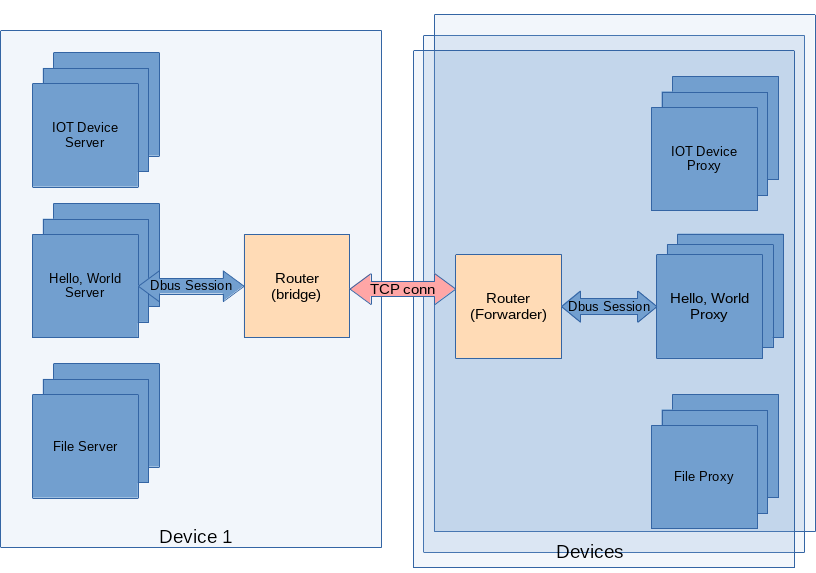
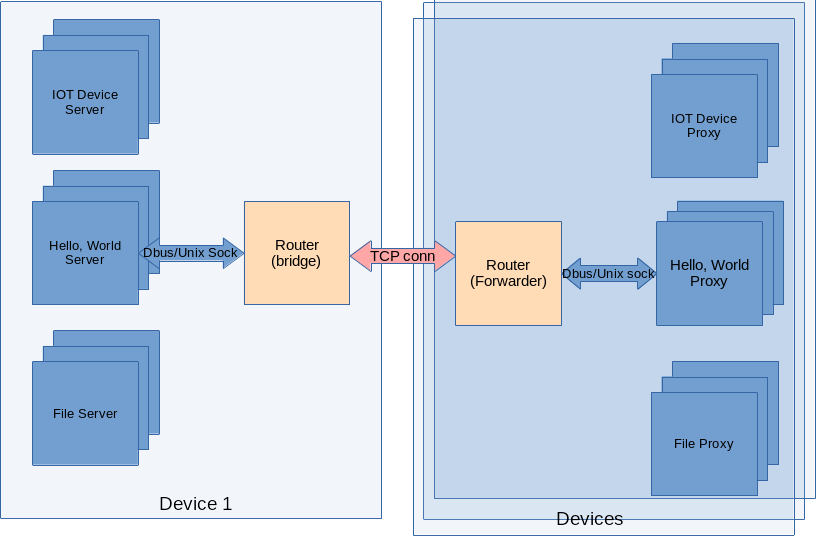
. Tut-Overview_cn-0.md, index_cn.md, docs/Makefile.am, pics/Makefile.am, pics/client-req-process.png, pics/server-req-process.png: added the 0th course of the rpc-frmwrk programming tutorial.

diff --git a/docs/Tut-Overview_cn-0.md b/docs/Tut-Overview_cn-0.md
@@ -1,0 +1,53 @@
+# C++开发教程
+## 第O节 rpc-frmwrk编程简介
+**本节要点**：   
+* rpc-frmwrk的架构和技术特点
+* rpc-frmwrk的请求处理流程
+* rpc-frmwrk的内存管理
+
+### rpc-frmwrk的架构和技术特点
+  * rpc-frmwrk是一个分布式的系统，微服务模式下的系统块图如下图:   
+     ![block-diagram](../pics/rpc-block-diagram.png)   
+  * rpc-frmwrk的各个模块是通过TCP连接，`Unix Socket`和DBus连接在一起，对于用户代码透明，可通过`rpcfg.py`或者配置文件进行设置。
+  * 客户端和服务器端程序，以及rpcrouter都是多线程的，完全并发的环境。几乎所有线程都处于各个运行对象共享的状态。
+  * ridl文件里，有个[service](../ridl/README_cn.md#语句)的概念。服务器是一个或者数个`service`实例的集合，同样客户端则是一个或者数个`service`实例集合。
+  * 服务器端的`service`继承自`CInterfaceServer`，客户端的`service`继承自`CInterfaceProxy`。
+  * `CInterfaceServer`或者`CInterfaceProxy`是一个异步I/O操作链条的起点和终点。而中间环节则是一组CTasklet和CPort堆栈组成，
+    而系统调用`read``write`或者`poll`处，则是这个I/O链条的转折点。由于操作系统的不同，这个系统调用会有所不同。
+  * 如果把从`CInterfaceServer`或者`CInterfaceProxy`开始的I/O链条视为一个I/O单元，那么`rpcrouter`就是管理I/O单元的特殊`service`。这样rpc-frmwrk的所有
+    工作几乎都可以通过嵌入或者堆砌这种`service`来构造。
+  * rpc-frwmrk请求的收发过程是完全异步的，通过Callback返回服务器响应或者错误码。而客户端的用户代码可以使用同步或者异步两种调用方式，收发请求和响应。
+    我们将在下面的课程中，看到这两种情况的应用。
+  
+### rpc-frmwrk的请求处理流程
+  * 下图是客户端RPC请求的异步处理流程。   
+     ![client process](../pics/client-req-process.png)   
+
+  * 下图是服务器端RPC请求的异步处理流程。   
+     ![server process](../pics/server-req-process.png)   
+
+### rpc-frmwrk的内存管理
+rpc-frmwrk定义的Class大部分基于共同的基类CObjBase，并具有唯一的32位`class id`。这使得这些类可以通过类工厂建立，并由引用技术控制对象的生命周期。
+一种常用的建立对象实例的方法是使用智能指针，如ObjPtr来建立和持有rpc-frmwrk对象的所有权。比如   
+```
+ObjPtr pObj;
+pObj.NewObj( clsid( CConfigDb2 ));
+```
+而向`sevice`之类比较复杂的类对象，一般是有配置文件的。这类对象的建立稍微复杂一些，需要传入配置参数。
+```
+    CParamList oParams;
+    oParams[ propIoMgr ] = g_pIoMgr;
+    
+    ret = CRpcServices::LoadObjDesc(
+        strDesc, "HelloWorldSvc",
+        false, oParams.GetCfg() );
+    if( ERROR( ret ) )
+        break;
+    ret = pIf.NewObj(
+        clsid( CHelloWorldSvc_CliImpl ),
+        oParams.GetCfg() );
+    if( ERROR( ret ) )
+        break;
+```
+
+## 有了以上的知识，我们可以更好的理解接下来的教程了

diff --git a/docs/index_cn.md b/docs/index_cn.md
@@ -65,6 +65,7 @@
   - [开发和调试](../Concept_cn.md#开发和调试)
   - [意见和建议](../Concept_cn.md#意见和建议)
 * rpc-frmwrk开发教程 ![new](../pics/new.png)
+  * [教程0-rpc-frmwrk编程概述](./Tut-Overview_cn-0.md)
   * [教程1-Hello, World!](./Tut-HelloWorld_cn-1.md)
   * [教程2-发送和接收'事件'](./Tut-SendEvent_cn-2.md)
   * [教程3-异步请求和处理](./Tut-AsyncRequest_cn-3.md)
